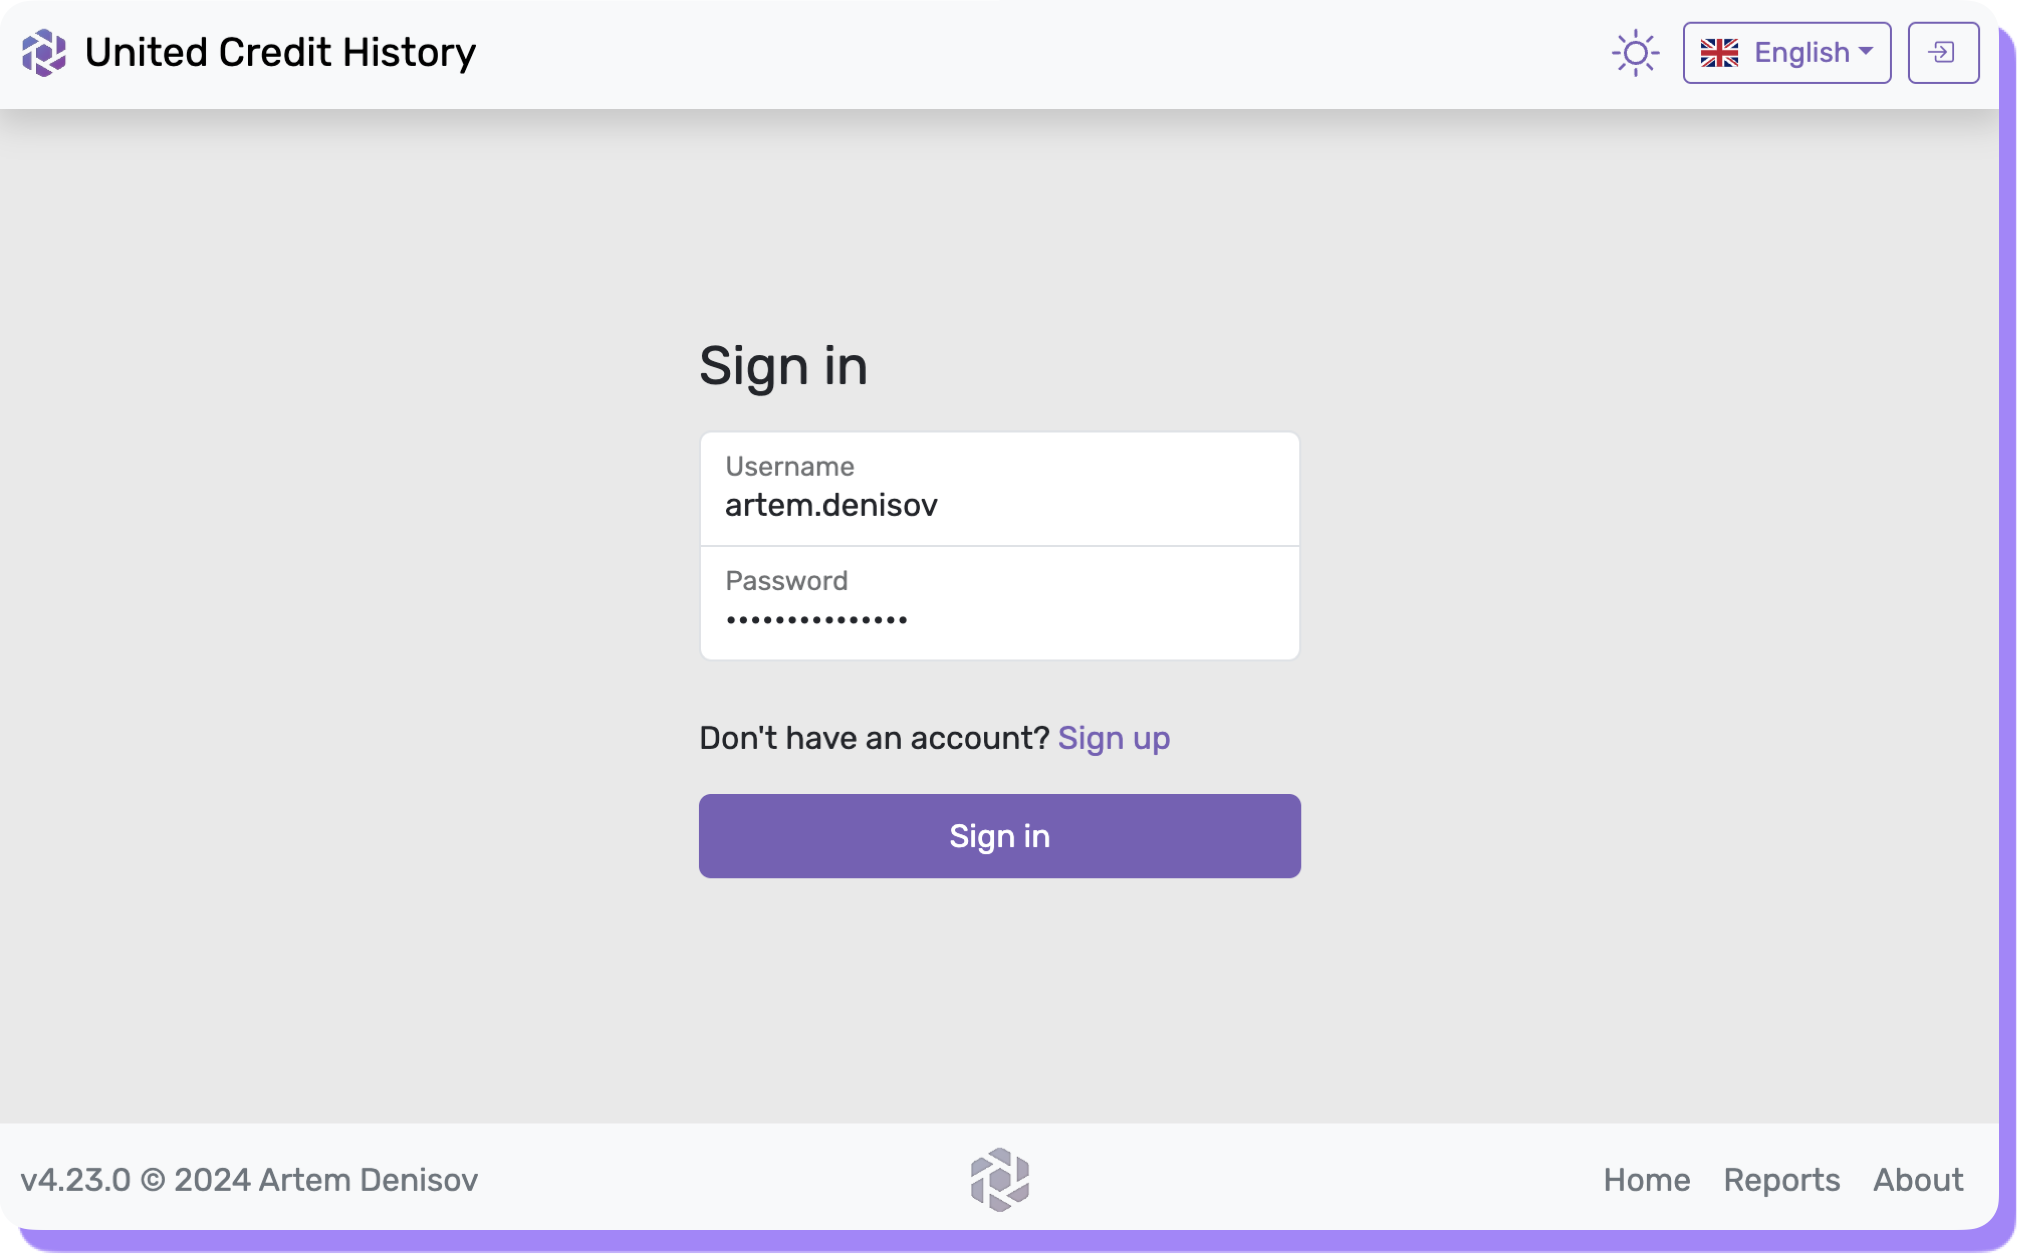
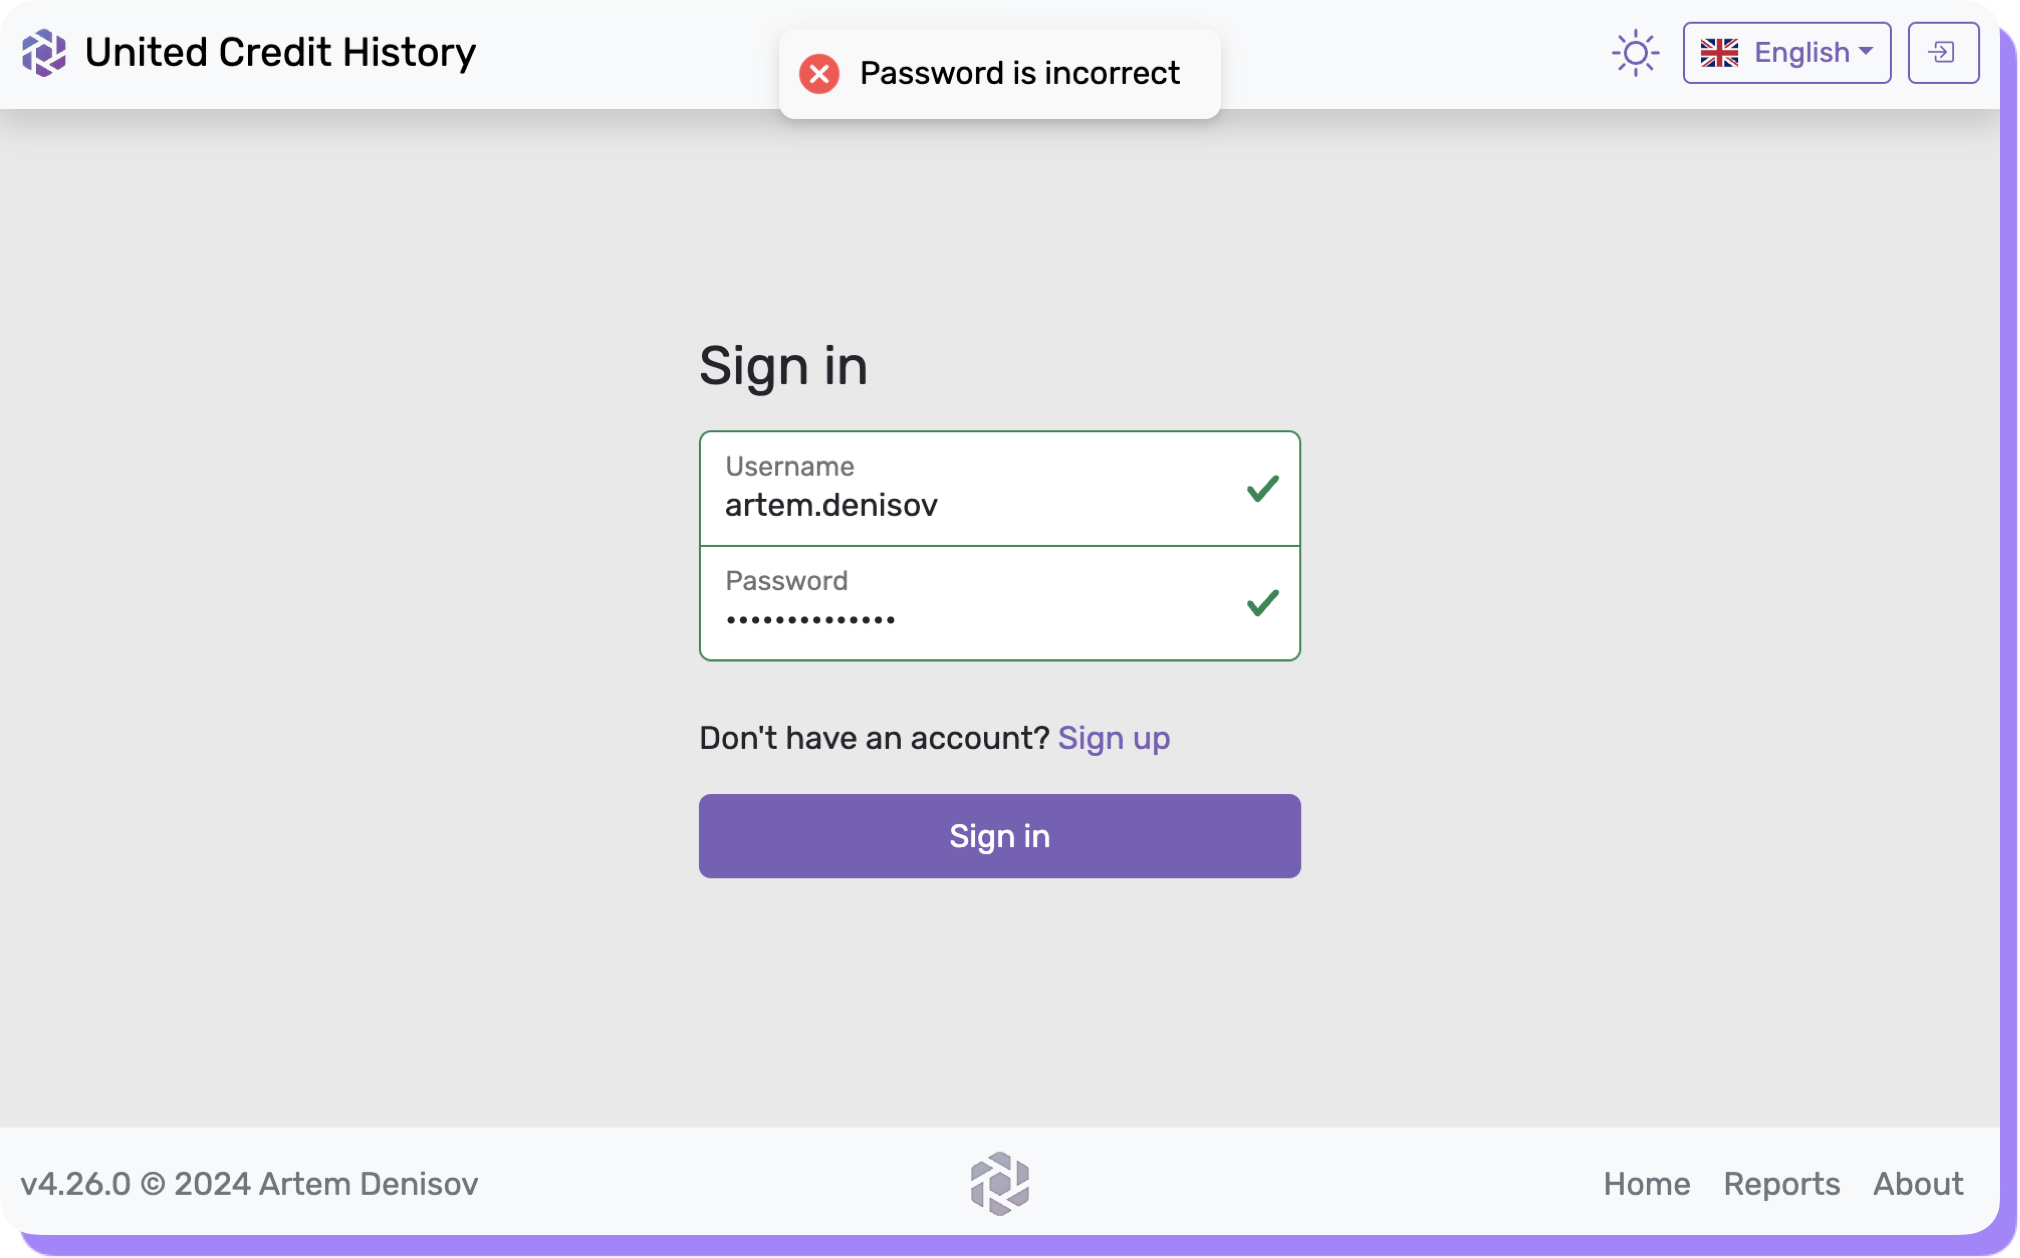
DEV-171 Login Form Validation

diff --git a/src/pages/Login.tsx b/src/pages/Login.tsx
@@ -36,7 +36,12 @@ const Login = () => {
 
     const handleSubmit = (e: FormEvent<HTMLFormElement>) => {
         e.preventDefault();
+
+        const form = e.currentTarget;
         setValidated(true);
+
+        if (!form.checkValidity()) return;
+
         setStatus("loading");
 
         const runLoginUser = async () => {
@@ -70,28 +75,24 @@ const Login = () => {
     return (
         <section className={classNames("uch-auth", "my-10", "m-auto")}>
             <h1 className="h3 mb-3 fw-normal">{t("titles.login")}</h1>
-            <Form
-                className={validated ? "was-validated" : undefined}
-                noValidate
-                onSubmit={handleSubmit}
-            >
+            <Form noValidate onSubmit={handleSubmit} validated={validated}>
                 <Form.Floating>
                     <Form.Control
-                        id="floatingUsername"
+                        id="username"
                         placeholder={t("labels.username")}
                         ref={usernameRef}
                         required
                         type="text"
                         {...usernameAttributes}
                     />
-                    <Form.Label htmlFor="floatingUsername">
+                    <Form.Label htmlFor="username">
                         {t("labels.username")}
                     </Form.Label>
                 </Form.Floating>
 
                 <Form.Floating>
                     <Form.Control
-                        id="floatingPassword"
+                        id="password"
                         minLength={8}
                         onChange={(e) => setPassword(e.target.value)}
                         placeholder={t("labels.password")}
@@ -99,7 +100,7 @@ const Login = () => {
                         type="password"
                         value={password}
                     />
-                    <Form.Label htmlFor="floatingPassword">
+                    <Form.Label htmlFor="password">
                         {t("labels.password")}
                     </Form.Label>
                 </Form.Floating>
